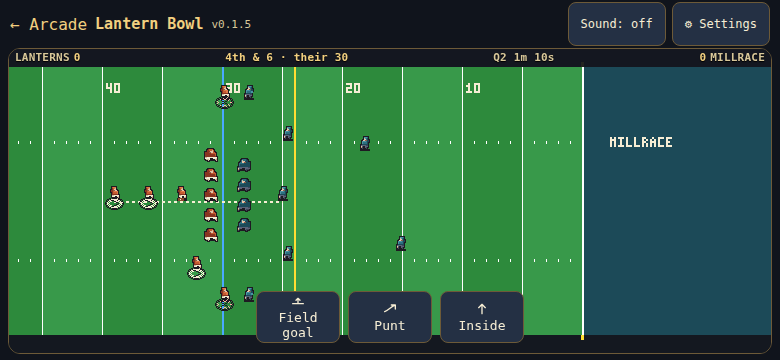
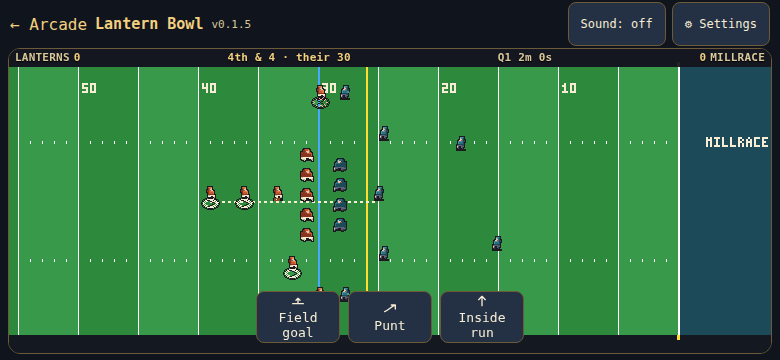
A miss names why the throw failed, the quarterback keeps room to pull back, and the result sits above the next play.

diff --git a/tests/lantern-bowl.html b/tests/lantern-bowl.html
@@ -90,17 +90,22 @@ document.querySelector('#run').onclick = async () => {
     M.callPlay(deepPlay, 'deep');
     const deepRec = deepPlay.play.actors.filter(a => a.off && a.role !== 'qb' && a.role !== 'ol')[0];
     const overthrown = M.missReason(deepPlay.play, { toX: deepRec.x + 8, toY: deepRec.y, power: 0.9, wobble: 0 }, { actor: deepRec, d: 8 });
-    const wideWobble = M.missReason(deepPlay.play, { toX: deepRec.x + 0.4, toY: deepRec.y + 4, power: 0.7, wobble: 0.6 }, { actor: deepRec, d: 4 });
+    const wideRight = M.missReason(deepPlay.play, { toX: deepRec.x + 0.4, toY: deepRec.y + 4, power: 0.7, wobble: 0.6 }, { actor: deepRec, d: 4 });
+    const wideLeft = M.missReason(deepPlay.play, { toX: deepRec.x, toY: deepRec.y - 5, power: 0.7, wobble: 0 }, { actor: deepRec, d: 5 });
     const underthrown = M.missReason(deepPlay.play, { toX: deepRec.x - 6, toY: deepRec.y, power: 0.35, wobble: 0 }, { actor: deepRec, d: 6 });
     const quickPlay = M.create({ seed: 2 });
     M.callPlay(quickPlay, 'quick');
     const quickQb = quickPlay.play.actors[quickPlay.play.carrier];
     const quickRec = quickPlay.play.actors.filter(a => a.off && a.route)[0];
     const plainMiss = M.missReason(quickPlay.play, { toX: quickQb.x + 8, toY: quickQb.y, power: 0.2, wobble: 0 }, { actor: quickRec, d: 5 });
-    check('a missed deep pass says it was overthrown', overthrown === 'Overthrown: too much power');
-    check('a missed deep pass names aim wobble', wideWobble === 'Wide: aim wobble (QB accuracy)');
-    check('a deep pass that dies short says it was underthrown', underthrown === 'Underthrown: not enough power');
-    check('a short miss stays a plain incompletion', plainMiss === 'The throw falls incomplete');
+    const missWords = ['Overthrown', 'Underthrown', 'Wide left', 'Wide right'];
+    check('a missed deep pass says it was overthrown', overthrown === 'Overthrown');
+    check('a throw wide of the receiver says which side', wideRight === 'Wide right' && wideLeft === 'Wide left');
+    check('a deep pass that dies short says it was underthrown', underthrown === 'Underthrown');
+    check('a short miss names the miss (' + plainMiss + ')', missWords.indexOf(plainMiss) >= 0 && plainMiss.indexOf('aim was off') < 0 && plainMiss !== 'The throw falls incomplete');
+    check('a sling catch window is a bit wider, and a lob reaches farther than a bullet', M.catchReach('bullet') > 2.5 && M.catchReach('bullet') < 4.2 && M.catchReach('lob') > M.catchReach('bullet'));
+    const aimedNear = M.aimReceiver(slingGame.play, slingRec.x + 0.4, slingRec.y - 0.2);
+    check('the receiver nearest the aim point is the one under the drag', aimedNear === slingRec && placed.autoAim === false && placed.target == null);
     const lobHang = M.flightSeconds(40, 'lob'), bulletHang = M.flightSeconds(40, 'bullet');
     check('a lob hangs about two seconds and a bullet is faster (' + lobHang.toFixed(2) + ' / ' + bulletHang.toFixed(2) + ')', lobHang > 1.8 && lobHang < 2.15 && bulletHang < lobHang - 0.7);
     const onContest = M.catchContest(2.2, 2.6), offContest = M.catchContest(1, 2.7), closerDef = M.catchContest(2.4, 1.1), fartherDef = M.catchContest(1.2, 2.4);
@@ -182,6 +187,12 @@ document.querySelector('#run').onclick = async () => {
     const focusRun = V.sideFocus({ family: 'run', spot: 25, ballX: 30 });
     const focusAir = V.sideFocus({ family: 'air', spot: 25, qbX: 20, landX: 40 });
     check('a run leads the carrier and a pass aims between the quarterback and the landing spot', Math.abs(focusRun.target - (30 + 40 / 12)) < 1e-9 && focusRun.chase === true && focusAir.target === 30 && focusAir.chase === true);
+    const droppedAt = 40 - 10.6;
+    const focusPocket = V.sideFocus({ family: 'pocket', spot: 40, qbX: droppedAt });
+    const pocketPx = V.sideProject({ x: droppedAt, y: 0 }, { x: focusPocket.target });
+    const focusBack = V.sideFocus({ cut: true, spot: 40 });
+    check('after the snap the quarterback stays in from the left edge', focusPocket.chase === true && focusPocket.target === droppedAt && focusPocket.target < 40 && pocketPx.x >= 80);
+    check('before the snap the camera leaves room behind the quarterback', focusBack.cut === true && focusBack.target === 32);
     check('the picture stays inside 32 colours', V.PALETTE.length <= 32 && V.PALETTE.length === new Set(V.PALETTE).size);
     const inkPen = { log: [] };
     ['save', 'restore', 'beginPath', 'moveTo', 'lineTo', 'ellipse', 'arc', 'fill', 'stroke', 'translate', 'scale', 'fillRect'].forEach(name => { inkPen[name] = () => { inkPen.log.push(name); }; });
@@ -707,9 +718,26 @@ document.querySelector('#run').onclick = async () => {
     await wait();
     const carried = d2.querySelector('#sheet');
     check('the toast names the ball carrier without a rating number', !!carried && !carried.hidden && carried.textContent.indexOf('Mara Holt') >= 0 && !/\(\d+\)/.test(carried.textContent) && carried.textContent.indexOf('throw ') < 0);
+    const sheetZ = parseInt(w2.getComputedStyle(carried).zIndex, 10);
+    const bannerZ = parseInt(w2.getComputedStyle(d2.querySelector('#banner')).zIndex, 10);
+    const dockZ = parseInt(w2.getComputedStyle(d2.querySelector('#dock')).zIndex, 10);
+    check('the result stays above the play cards and those cards stay hidden', w2.__lantern.state.phase !== 'final' && d2.querySelectorAll('[data-play]').length === 0 && !carried.hidden && sheetZ > dockZ && bannerZ > dockZ);
+    let cardsBack = false;
+    const backWatch = performance.now();
+    while (performance.now() - backWatch < 4000 && !cardsBack) {
+      await new Promise(resolve => setTimeout(resolve, 50));
+      cardsBack = w2.__lantern.mode === 'play' && d2.querySelectorAll('[data-play]').length >= 2 && d2.querySelectorAll('[data-play]').length <= 3;
+    }
+    check('the next play can be called once the result has been shown', cardsBack);
     resumed.possession = 'home';
     resumed.phase = 'call';
     resumed.down = 1;
+    resumed.toGo = 5;
+    w2.__lantern.refresh();
+    await wait();
+    const runWords = Array.from(d2.querySelectorAll('[data-play]')).map(b => (b.textContent || '').replace(/\s+/g, ' ').trim()).join(' ');
+    check('inside and outside are labelled as runs', /Inside run/.test(runWords) && /Outside run/.test(runWords));
+    resumed.toGo = 10;
     const ours = d2.querySelector('[data-ours]');
     if (ours) ours.click();
     else w2.__lantern.refresh();

diff --git a/games/lantern-bowl/model.js b/games/lantern-bowl/model.js
@@ -1313,14 +1313,14 @@
     var dist = Math.hypot(ball.toX - qb.x, ball.toY - qb.y);
     if (!ball.target) {
       game.events.push('miss');
-      return incomplete(game, 'The throw falls incomplete');
+      var missed = nearest(play, ball.toX, ball.toY, function (a) { return a.off && a.role !== 'qb' && a.role !== 'ol'; });
+      return incomplete(game, missReason(play, ball, missed));
     }
     var catcher = { actor: ball.target, d: 0 };
     var cover = nearest(play, ball.toX, ball.toY, function (a) { return !a.off && (a.role === 'cb' || a.role === 's'); });
     var cov = cover && cover.d < (ball.kind === 'bullet' ? 3.2 : 5.5) ? cover.actor.cover : 32;
     if (play.offence === 'away') cov += 3;
     var hands = catcher.actor.catch;
-    var opening = throwWindow(dist, ball.kind);
     var outcome = resolveCatch(function () { return roll(game); }, ball.qb, hands, cov, dist, ball.kind);
     if (outcome === 'catch') {
       catcher.actor.x = ball.toX; catcher.actor.y = ball.toY;
@@ -1346,7 +1346,7 @@
       return incomplete(game, 'Broken up. ' + resultLine('the cover', cov, catcher.actor.name + "'s hands", hands));
     }
     game.events.push('miss');
-    return incomplete(game, 'The throw misses ' + catcher.actor.name + '. ' + resultLine('the window', opening, 'the throw', ball.qb));
+    return incomplete(game, missReason(play, ball, catcher));
   }
 
   function finishArrival(game, play, ball, catcher, cov, hands, outcome, opening) {
@@ -1374,28 +1374,32 @@
       return incomplete(game, 'Broken up. ' + resultLine('the cover', cov == null ? 30 : cov, catcher.actor.name + "'s hands", hands));
     }
     game.events.push('miss');
-    return incomplete(game, 'The throw misses ' + catcher.actor.name + '. ' + resultLine('the window', opening, 'the throw', ball.qb));
+    return incomplete(game, missReason(play, ball, catcher));
   }
-  /* Why a deep sling miss missed. A short checkdown keeps the plain line. */
+  /* Why the ball missed the nearest receiver. Positive yards across the field are to the right. */
   function missReason(play, ball, catcher) {
     ball = ball || {};
     var qb = carrierOf(play);
-    var travel = Math.hypot((Number(ball.toX) || 0) - qb.x, (Number(ball.toY) || 0) - qb.y);
-    var power = Number(ball.power) || 0;
-    var deep = (play && play.id === 'deep') || travel >= 15 || power >= 0.55;
-    if (!deep || !catcher || !catcher.actor) return 'The throw falls incomplete';
-    var dx = (Number(ball.toX) || 0) - catcher.actor.x;
-    var dy = (Number(ball.toY) || 0) - catcher.actor.y;
-    var wide = Math.abs(dy);
-    var wobble = Number(ball.wobble) || 0;
-    if (wide >= 1.6 && wide >= Math.abs(dx)) {
-      return wobble > 0 ? 'Wide: aim wobble (QB accuracy)' : 'Wide: the aim was off';
-    }
-    if (dx >= 1.6) return 'Overthrown: too much power';
-    if (dx <= -1.6) return 'Underthrown: not enough power';
-    if (wobble > 0) return 'Wide: aim wobble (QB accuracy)';
-    if (power >= 0.55) return 'Overthrown: too much power';
-    return 'Underthrown: not enough power';
+    var tx = Number(ball.toX) || 0, ty = Number(ball.toY) || 0;
+    var who = catcher && catcher.actor;
+    var dx = who ? tx - who.x : tx - (qb ? qb.x : 0);
+    var dy = who ? ty - who.y : ty - (qb ? qb.y : 0);
+    var wide = Math.abs(dy), depth = Math.abs(dx);
+    if (wide >= 1.2 && wide >= depth * 0.65) return dy > 0 ? 'Wide right' : 'Wide left';
+    if (dx >= 1.2) return 'Overthrown';
+    if (dx <= -1.2) return 'Underthrown';
+    if (wide >= 0.6) return dy > 0 ? 'Wide right' : 'Wide left';
+    return (Number(ball.power) || 0) >= 0.55 ? 'Overthrown' : 'Underthrown';
+  }
+  /* The nearest receiver to a pull. Drawing only: the throw still lands where the drag let go. */
+  function aimReceiver(play, x, y) {
+    if (!play) return null;
+    var near = nearest(play, x, y, function (a) { return a.off && a.role !== 'qb' && a.role !== 'ol'; });
+    return near ? near.actor : null;
+  }
+  /* How close a sling throw has to land for that receiver to have a play on it. */
+  function catchReach(kind) {
+    return kind === 'bullet' ? 3.4 : 4.0;
   }
   function settleSling(game, play, ball) {
     var qb = carrierOf(play);
@@ -1404,7 +1408,7 @@
       return incomplete(game, qb.name + ' throws it away');
     }
     var catcher = nearest(play, ball.toX, ball.toY, function (a) { return a.off && a.role !== 'qb' && a.role !== 'ol'; });
-    var reach = ball.kind === 'bullet' ? 2.5 : 3.1;
+    var reach = catchReach(ball.kind);
     if (!catcher || catcher.d > reach) {
       game.events.push('miss');
       return incomplete(game, missReason(play, ball, catcher));
@@ -1964,7 +1968,7 @@
     passError: passError, pressureFactor: pressureFactor, guideState: guideState,
     slingAim: slingAim, lockReceiver: lockReceiver, arriveOutcome: arriveOutcome,
     catchContest: catchContest, opennessBand: opennessBand, CONTEST_YARDS: CONTEST_YARDS,
-    missReason: missReason,
+    missReason: missReason, aimReceiver: aimReceiver, catchReach: catchReach,
     receiverRate: receiverRate, flightSeconds: flightSeconds, DEFAULT_PASS: 'retro',
     simulateGame: simulateGame, winSplit: winSplit, jukePolicy: jukePolicy, divePolicy: divePolicy,
     earlyJukePolicy: earlyJukePolicy, earlyDivePolicy: earlyDivePolicy, scriptedSeries: scriptedSeries,

diff --git a/games/lantern-bowl/game.js b/games/lantern-bowl/game.js
@@ -79,7 +79,7 @@
   var state = null, mode = 'title', last = 0, bannerUntil = 0, aimDrag = null, lastSheet = '';
   var keys = new Set(), turboHeld = false, gesture = null, steer = 0, queued = { juke: 0, dive: false, spin: false, throw: null };
   var stick = null, receiverKey = '', throwKind = 'bullet', turboTouch = null;
-  var sheetDetail = false, watchLeft = 0, touchGuard = 0, rushWatch = false, promptUntil = 0, summaryLine = '';
+  var sheetDetail = false, watchLeft = 0, resultLeft = 0, touchGuard = 0, rushWatch = false, promptUntil = 0, summaryLine = '';
   var pointerNotes = [];
 
   function persist() {
@@ -205,10 +205,21 @@
   }
 
   function showCall() {
+    resultLeft = 0;
     if (!state || state.phase === 'final') return showFinal();
     if (state.possession !== 'home') return askDefence();
-    if (mode === 'watch') lastSheet = '';
+    if (mode === 'watch' || mode === 'result') lastSheet = '';
     mode = 'play';
+    dock();
+    say('');
+  }
+  /* The whistle's line stays up, with the next play cards held back so they cannot cover it. */
+  function showResult() {
+    if (!state || state.phase === 'final') return showFinal();
+    if (state.possession !== 'home') return holdWatch();
+    mode = 'result';
+    resultLeft = 1.15;
+    hidePanel();
     dock();
     say(summaryLine || M.currentMessage(state));
   }
@@ -303,7 +314,7 @@
     if (id === 'punt') return 'Punt';
     if (id === 'kick') return 'Kick';
     if (M.DEFENCE[id]) return M.DEFENCE[id].label;
-    if (M.PLAYS[id]) return M.PLAYS[id].label.replace(' run', '').replace(' pass', '');
+    if (M.PLAYS[id]) return M.PLAYS[id].label.replace(' pass', '');
     return id;
   }
   function hintText() {
@@ -346,6 +357,8 @@
 
   function begin(id) {
     if (!state || state.phase !== 'call' || state.possession !== 'home') return;
+    resultLeft = 0;
+    if (mode === 'result') mode = 'play';
     summaryLine = '';
     if (id === 'kick' || id === 'field' || id === 'punt') { M.kick(state, id === 'kick' ? null : id); afterWhistle(); return; }
     if (!M.callPlay(state, id)) return;
@@ -357,12 +370,13 @@
   }
 
   function afterWhistle() {
+    resultLeft = 0;
     audio.sfx(state.last && state.last.kind === 'score' ? 'win' : state.last && state.last.kind === 'turnover' ? 'warn' : 'hit');
     persist();
     turboHeld = false;
     if (state.phase === 'final') return showFinal();
     if (state.phase === 'cpu' || state.possession === 'away') return holdWatch();
-    showCall();
+    showResult();
   }
 
   function finishLive() {
@@ -809,7 +823,10 @@
     paintTools();
     if (performance.now() >= promptUntil) {
       var watching = mode === 'watch' || mode === 'defence';
-      var msg = (watching || state.phase === 'live' || state.phase === 'final') ? '' : (summaryLine || M.currentMessage(state));
+      var calling = mode === 'play' && state.phase === 'call';
+      var msg = '';
+      if (mode === 'result') msg = summaryLine || M.currentMessage(state) || '';
+      else if (!watching && !calling && state.phase !== 'live' && state.phase !== 'final') msg = summaryLine || M.currentMessage(state) || '';
       if ($('banner').textContent !== msg) say(msg);
     }
   }
@@ -839,11 +856,14 @@
     var family = 'pocket';
     if (live && play.flight) family = 'air';
     else if (live && (play.family === 'run' || play.didCatch)) family = 'run';
-    var qbX = spot;
+    var qbX = spot - 8;
     var landX = spot;
     if (live && play.flight) {
       qbX = spot + play.flight.fromX;
       landX = spot + play.flight.toX;
+    } else if (live && family === 'pocket') {
+      var carrier = play.actors[play.carrier];
+      qbX = spot + (carrier ? carrier.x : -6) + V.pocketDrop(play.elapsed);
     }
     var focus = V.sideFocus({
       family: family,
@@ -944,7 +964,10 @@
       requestAnimationFrame(frame);
       return;
     }
-    if (mode === 'play' && state && state.phase === 'live' && !document.hidden) {
+    if (mode === 'result' && state && !document.hidden) {
+      resultLeft -= dt;
+      if (resultLeft <= 0) showCall();
+    } else if (mode === 'play' && state && state.phase === 'live' && !document.hidden) {
       if (state.play) lastSheet = snapLine(state);
       M.step(state, reduce ? Math.min(dt, 0.02) : dt, readGesture());
       soundFor(state.events);

diff --git a/games/lantern-bowl/view.js b/games/lantern-bowl/view.js
@@ -349,10 +349,14 @@
     spec = spec || {};
     var spot = Number(spec.spot) || 0;
     if (spec.whistle || spec.family === 'dead') return { target: spot, chase: false, cut: false };
-    if (spec.cut) return { target: spot, chase: false, cut: true };
+    if (spec.cut) {
+      var behind = spec.qbX == null ? spot - 8 : Number(spec.qbX);
+      return { target: behind, chase: false, cut: true };
+    }
     if (spec.family === 'air') return { target: ((Number(spec.qbX) || 0) + (Number(spec.landX) || 0)) / 2, chase: true, cut: false };
     if (spec.family === 'run') return { target: (Number(spec.ballX) || spot) + SIDE.lead / SIDE.yard, chase: true, cut: false };
-    return { target: spot, chase: true, cut: false };
+    var pocket = spec.qbX == null ? spot - 8 : Number(spec.qbX);
+    return { target: pocket, chase: true, cut: false };
   }
   function alongPx(abs, camX) {
     var delta = ((Number(abs) || 0) - (Number(camX) || 0)) * SIDE.yard;
@@ -688,7 +692,11 @@
       return { p: p, s: at(px, p.y) };
     }).sort(function (a, b) { return a.p.y - b.p.y; });
     var carrier = play && play.actors ? play.actors[play.carrier] : null;
-    var aimTarget = spec.aim && spec.aim.preview ? spec.aim.preview.target : null;
+    var aimPreview = spec.aim && spec.aim.preview;
+    var aimTarget = null;
+    if (aimPreview && play && root.LanternModel && root.LanternModel.aimReceiver) {
+      aimTarget = root.LanternModel.aimReceiver(play, aimPreview.x, aimPreview.y);
+    } else if (aimPreview) aimTarget = aimPreview.target;
     bodies.forEach(function (row) {
       var p = row.p;
       var team = p.off ? off : def;

diff --git a/games/lantern-bowl/style.css b/games/lantern-bowl/style.css
@@ -49,7 +49,7 @@ canvas { display: block; width: 100%; height: 100%; touch-action: none; }
 .hud .mid { text-align: center; flex: 0 1 auto; overflow: hidden; text-overflow: ellipsis; }
 .hud .right { text-align: right; }
 .sheet {
-  position: absolute; left: 50%; top: 22px; transform: translateX(-50%); z-index: 4;
+  position: absolute; left: 50%; top: 22px; transform: translateX(-50%); z-index: 6;
   max-width: min(92%, 420px); margin: 0; padding: 4px 12px; border-radius: 999px;
   background: #141820d0; color: #f6edd4; font-size: calc(13px * var(--arc-text));
   line-height: 1.3; text-align: center; pointer-events: none;
@@ -77,7 +77,7 @@ canvas { display: block; width: 100%; height: 100%; touch-action: none; }
 .cpu-log li { margin: 0 0 8px; }
 .cpu-log p { margin: 0; }
 .banner {
-  position: absolute; left: 50%; bottom: 12px; top: auto; transform: translateX(-50%); z-index: 4;
+  position: absolute; left: 50%; bottom: 12px; top: auto; transform: translateX(-50%); z-index: 6;
   max-width: min(92%, 420px); padding: 6px 12px; background: #141820e6; border: 1px solid var(--lamp);
   color: var(--ink); text-align: center; font-size: calc(14px * var(--arc-text)); pointer-events: none;
 }

diff --git a/games/lantern-bowl/README.md b/games/lantern-bowl/README.md
@@ -10,11 +10,11 @@ v0.1.2. Millrace remembers the three plays you call most, and sits on a play you
 
 v0.1.1. One football game at Lamplight Field. You are the Brackenport Lanterns, Millrace is the other side. Four quarters of two minutes. You call the play and play the snap. Their drives play out on the field.
 
-The field fills the screen. The score, the down and the clock sit in a strip about 18 pixels tall. Before the snap, three plays sit in a short row along the bottom, with the route drawn on the card and in chalk on the grass, and a ring under each receiver. On fourth down, a punt is one of those three. When the goal is within 38 yards, a field goal is there too, and it is harder from farther away. During a play there are no action buttons. Before Millrace's drive you pick Blitz, Balanced or Prevent. Their drive then plays as a short highlight, and one line says how it ended. The clock is slower than the snap itself, so a game holds about 8 to 12 of your drives. A short completion does not always gain the same yards.
+The field fills the screen. The score, the down and the clock sit in a strip about 18 pixels tall. Before the snap, three plays sit in a short row along the bottom, with the route drawn on the card and in chalk on the grass, and a ring under each receiver. Inside and Outside are labelled as runs. On fourth down, a punt is one of those three. When the goal is within 38 yards, a field goal is there too, and it is harder from farther away. During a play there are no action buttons. After the whistle the result stays on top for a moment, and the next play cards wait until that line has been shown. Before Millrace's drive you pick Blitz, Balanced or Prevent. Their drive then plays as a short highlight, and one line says how it ended. The clock is slower than the snap itself, so a game holds about 8 to 12 of your drives. A short completion does not always gain the same yards.
 
-Drag anywhere on the field and let go to throw. Downfield is the opposite of the drag. How far you pull sets the power and the dotted landing arc. A second finger, a right-click, or Shift switches a lob and a bullet. A lob hangs longer. A bullet gets there sooner. The ball lands where you aimed. It does not lead the receiver for you. Aim error grows with the distance and with pressure. A defender within about 2.6 yards contests the catch. A breakup is much more common than a pick, and a pick happens only when that defender is closer to the ball than the receiver. A miss says what happened: overthrown, broken up, or picked. Letting go past the sideline throws it away. With the ball, swipe or hold to steer and juke. Tap to dive. A second finger sprints and spends wind. The result is a short line that does not cover the play, and it does not read out rating numbers. Green lanes are blocked open. Red lanes are not. The ring around the quarterback shrinks as the rush arrives. Ratings still run from 0 to 100 inside the game. About 50 is an ordinary player. A careless game loses. An attentive one wins. One snap never takes more than 14 seconds. Millrace's drive is a short highlight on the field after you pick a defence, and one line says how it ended. If the score is level at the gun, overtime gives each side one turn from the 25. A lead after both turns wins. If it is still level, they play another pair of turns. Play again returns to the kickoff.
+Drag anywhere on the field and let go to throw. Downfield is the opposite of the drag. How far you pull sets the power and the dotted landing arc. A second finger, a right-click, or Shift switches a lob and a bullet. A lob hangs longer. A bullet gets there sooner. The ball lands where you aimed. It does not lead the receiver for you, and it does not steer itself onto a receiver. While you drag, the receiver nearest that spot is highlighted. A catch still needs the ball to arrive near that receiver, a little wider than before, and still a miss if the drag is off. Aim error grows with the distance and with pressure. A defender within about 2.6 yards contests the catch. A breakup is much more common than a pick, and a pick happens only when that defender is closer to the ball than the receiver. A miss says what happened: overthrown, underthrown, wide left, wide right, broken up, or picked. Letting go past the sideline throws it away. With the ball, swipe or hold to steer and juke. Tap to dive. A second finger sprints and spends wind. The result is a short line that does not cover the play, and it does not read out rating numbers. Green lanes are blocked open. Red lanes are not. The ring around the quarterback shrinks as the rush arrives. Ratings still run from 0 to 100 inside the game. About 50 is an ordinary player. A careless game loses. An attentive one wins. One snap never takes more than 14 seconds. Millrace's drive is a short highlight on the field after you pick a defence, and one line says how it ended. If the score is level at the gun, overtime gives each side one turn from the 25. A lead after both turns wins. If it is still level, they play another pair of turns. Play again returns to the kickoff.
 
-The field runs left to right, seen from the side. A phone held upright shows a full-screen note, Turn your phone sideways, and the game waits. Turning the phone back to landscape takes the note away and the same snap continues. A wide desktop window plays the side-on field as it is. Before the snap the line of scrimmage sits back from the play, and the camera follows a run or a throw without sliding after the whistle. Eleven play on each side. Linemen are the wider, lower body. Quarterbacks, backs, receivers, tight ends, linebackers and defensive backs are the narrower one. Both are side-on sprites in the club colours, and a drawn figure stands in if a sprite is missing. Outlines are ink.
+The field runs left to right, seen from the side. A phone held upright shows a full-screen note, Turn your phone sideways, and the game waits. Turning the phone back to landscape takes the note away and the same snap continues. A wide desktop window plays the side-on field as it is. Before the snap the camera sits behind the line, and after the snap it stays on the quarterback so there is room to pull back. It follows a run or a throw without sliding after the whistle. Eleven play on each side. Linemen are the wider, lower body. Quarterbacks, backs, receivers, tight ends, linebackers and defensive backs are the narrower one. Both are side-on sprites in the club colours, and a drawn figure stands in if a sprite is missing. Outlines are ink.
 
 During a snap the screen keeps the score, the down and the clock. The play cards leave until the whistle. The result comes back as one short line. Millrace's highlight has no buttons either. The version stays readable when the window is 360 pixels wide, and Settings stays on the screen at 390.
 
